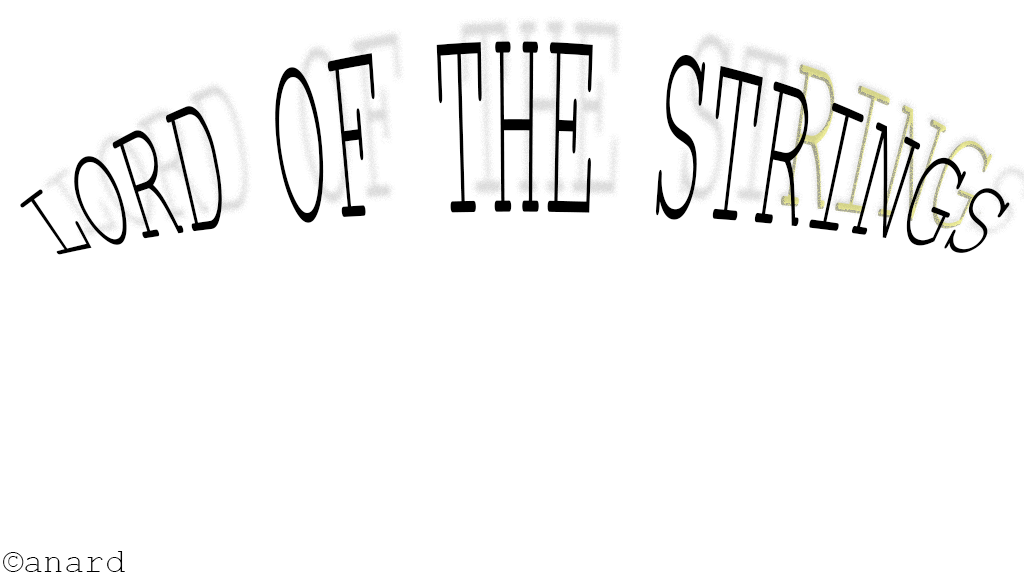
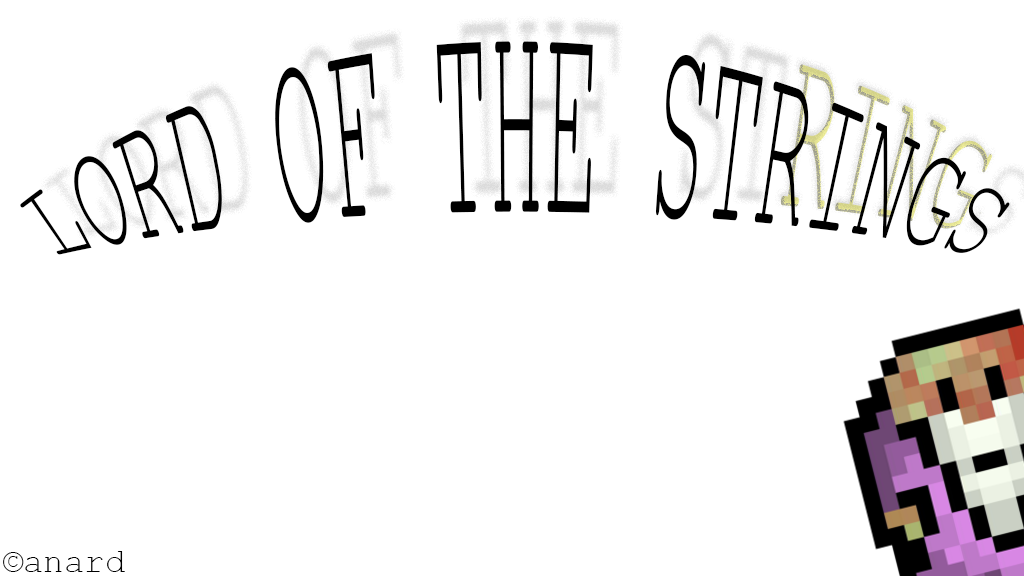
-Optimisation affichage\o/ -placement piece aléatoire -écran de victoire quand on attrape l'anneau

Changed region(s): [[0.8125, 0.5312, 1.0, 1.0]]

diff --git a/[PROJET]LotStr/src/Monde.java b/[PROJET]LotStr/src/Monde.java
@@ -69,6 +69,27 @@ public class Monde implements ObservableMonde
 	
 	}
 	
+	public Position2D positionLibre()
+	{
+		Position2D position= null;
+		
+		do
+		{
+			position=Position2D.random();
+		}
+		while(getCase(position).getId() != '0' || !estDansMonde(position));
+		
+		return position;
+	}
+	
+	public void placerPiece(int nb)
+	{
+		for(int i=0;i<nb;i++)
+		{
+			getCase(positionLibre()).mettreItem( new PieceOr('$') );
+		}
+	}
+	
 	public void placerPnjs()
 	{
 		for(int i=1;i<=Global.NB_PNJS;i++)
@@ -98,12 +119,7 @@ public class Monde implements ObservableMonde
 		initPosition();
 		initMur();
 		
-		getCase(Position2D.position(2,2)).mettreItem( new PieceOr('$') ); ////DEBUG////
-		getCase(Position2D.position(2,3)).mettreItem( new PieceOr('$') ); ////DEBUG////
-		getCase(Position2D.position(2,4)).mettreItem( new PieceOr('$') ); ////DEBUG////
-		
-		placerPnjs();
-		getCase(Position2D.position(2,15)).mettreItem( new PieceOr('$') ); ////DEBUG////
+		placerPiece(Global.NB_PIECE);
 		
 		
 

diff --git a/[PROJET]LotStr/src/Position2D.java b/[PROJET]LotStr/src/Position2D.java
@@ -85,6 +85,10 @@ public class Position2D
 		return new Position2D(m_l,m_c);
 	}
 	
+	public static Position2D random()
+	{
+		return Position2D.position(Outil.hasard(0,Global.NB_CASE_HAUTEUR),Outil.hasard(0,Global.NB_CASE_LARGEUR));
+	}
 	
 	public boolean estEntre(Position2D A, Position2D B )
 	{
@@ -237,6 +241,10 @@ public class Position2D
 				+ Math.pow(m_c - cible.m_c, 2));
 	}
 	
+	public String toString()
+	{
+		return "( "+m_l+", "+m_c+" )";
+	}
 	public Vector<Position2D> getVoisin()
 	{
 		Vector<Position2D> voisin= new Vector<Position2D>();

diff --git a/[PROJET]LotStr/src/Global.java b/[PROJET]LotStr/src/Global.java
@@ -31,6 +31,7 @@ public class Global
 	final public static int DEF_JOUEUR = 2;
 	
 	final public static int NB_PNJS = 3;
+	final public static int NB_PIECE = 10;
 	
 	final public static int KEY_HAUT=0;
 	final public static int KEY_BAS=1;

diff --git a/[PROJET]LotStr/src/Outil.java b/[PROJET]LotStr/src/Outil.java
@@ -72,6 +72,11 @@ public class Outil
 		return contenu;
 	}
 	
+	public static int hasard(int a,int b)
+	{
+		return ((int)(Math.random()*(b-a) +a ));
+	}
+	
 	public static Image loadImage(String path)
 	{
 		Image img;

diff --git a/[PROJET]LotStr/src/Jeu.java b/[PROJET]LotStr/src/Jeu.java
@@ -63,7 +63,7 @@ public class Jeu
 		m_gagne=true;
 		if(Global.MODE_GRAPHIQUE)
 		{
-			Global.FENETRE.changePanel(new Ecran.MenuPanel());
+			Global.FENETRE.changePanel(Ecran.WIN);
 		}
 		else
 		{
